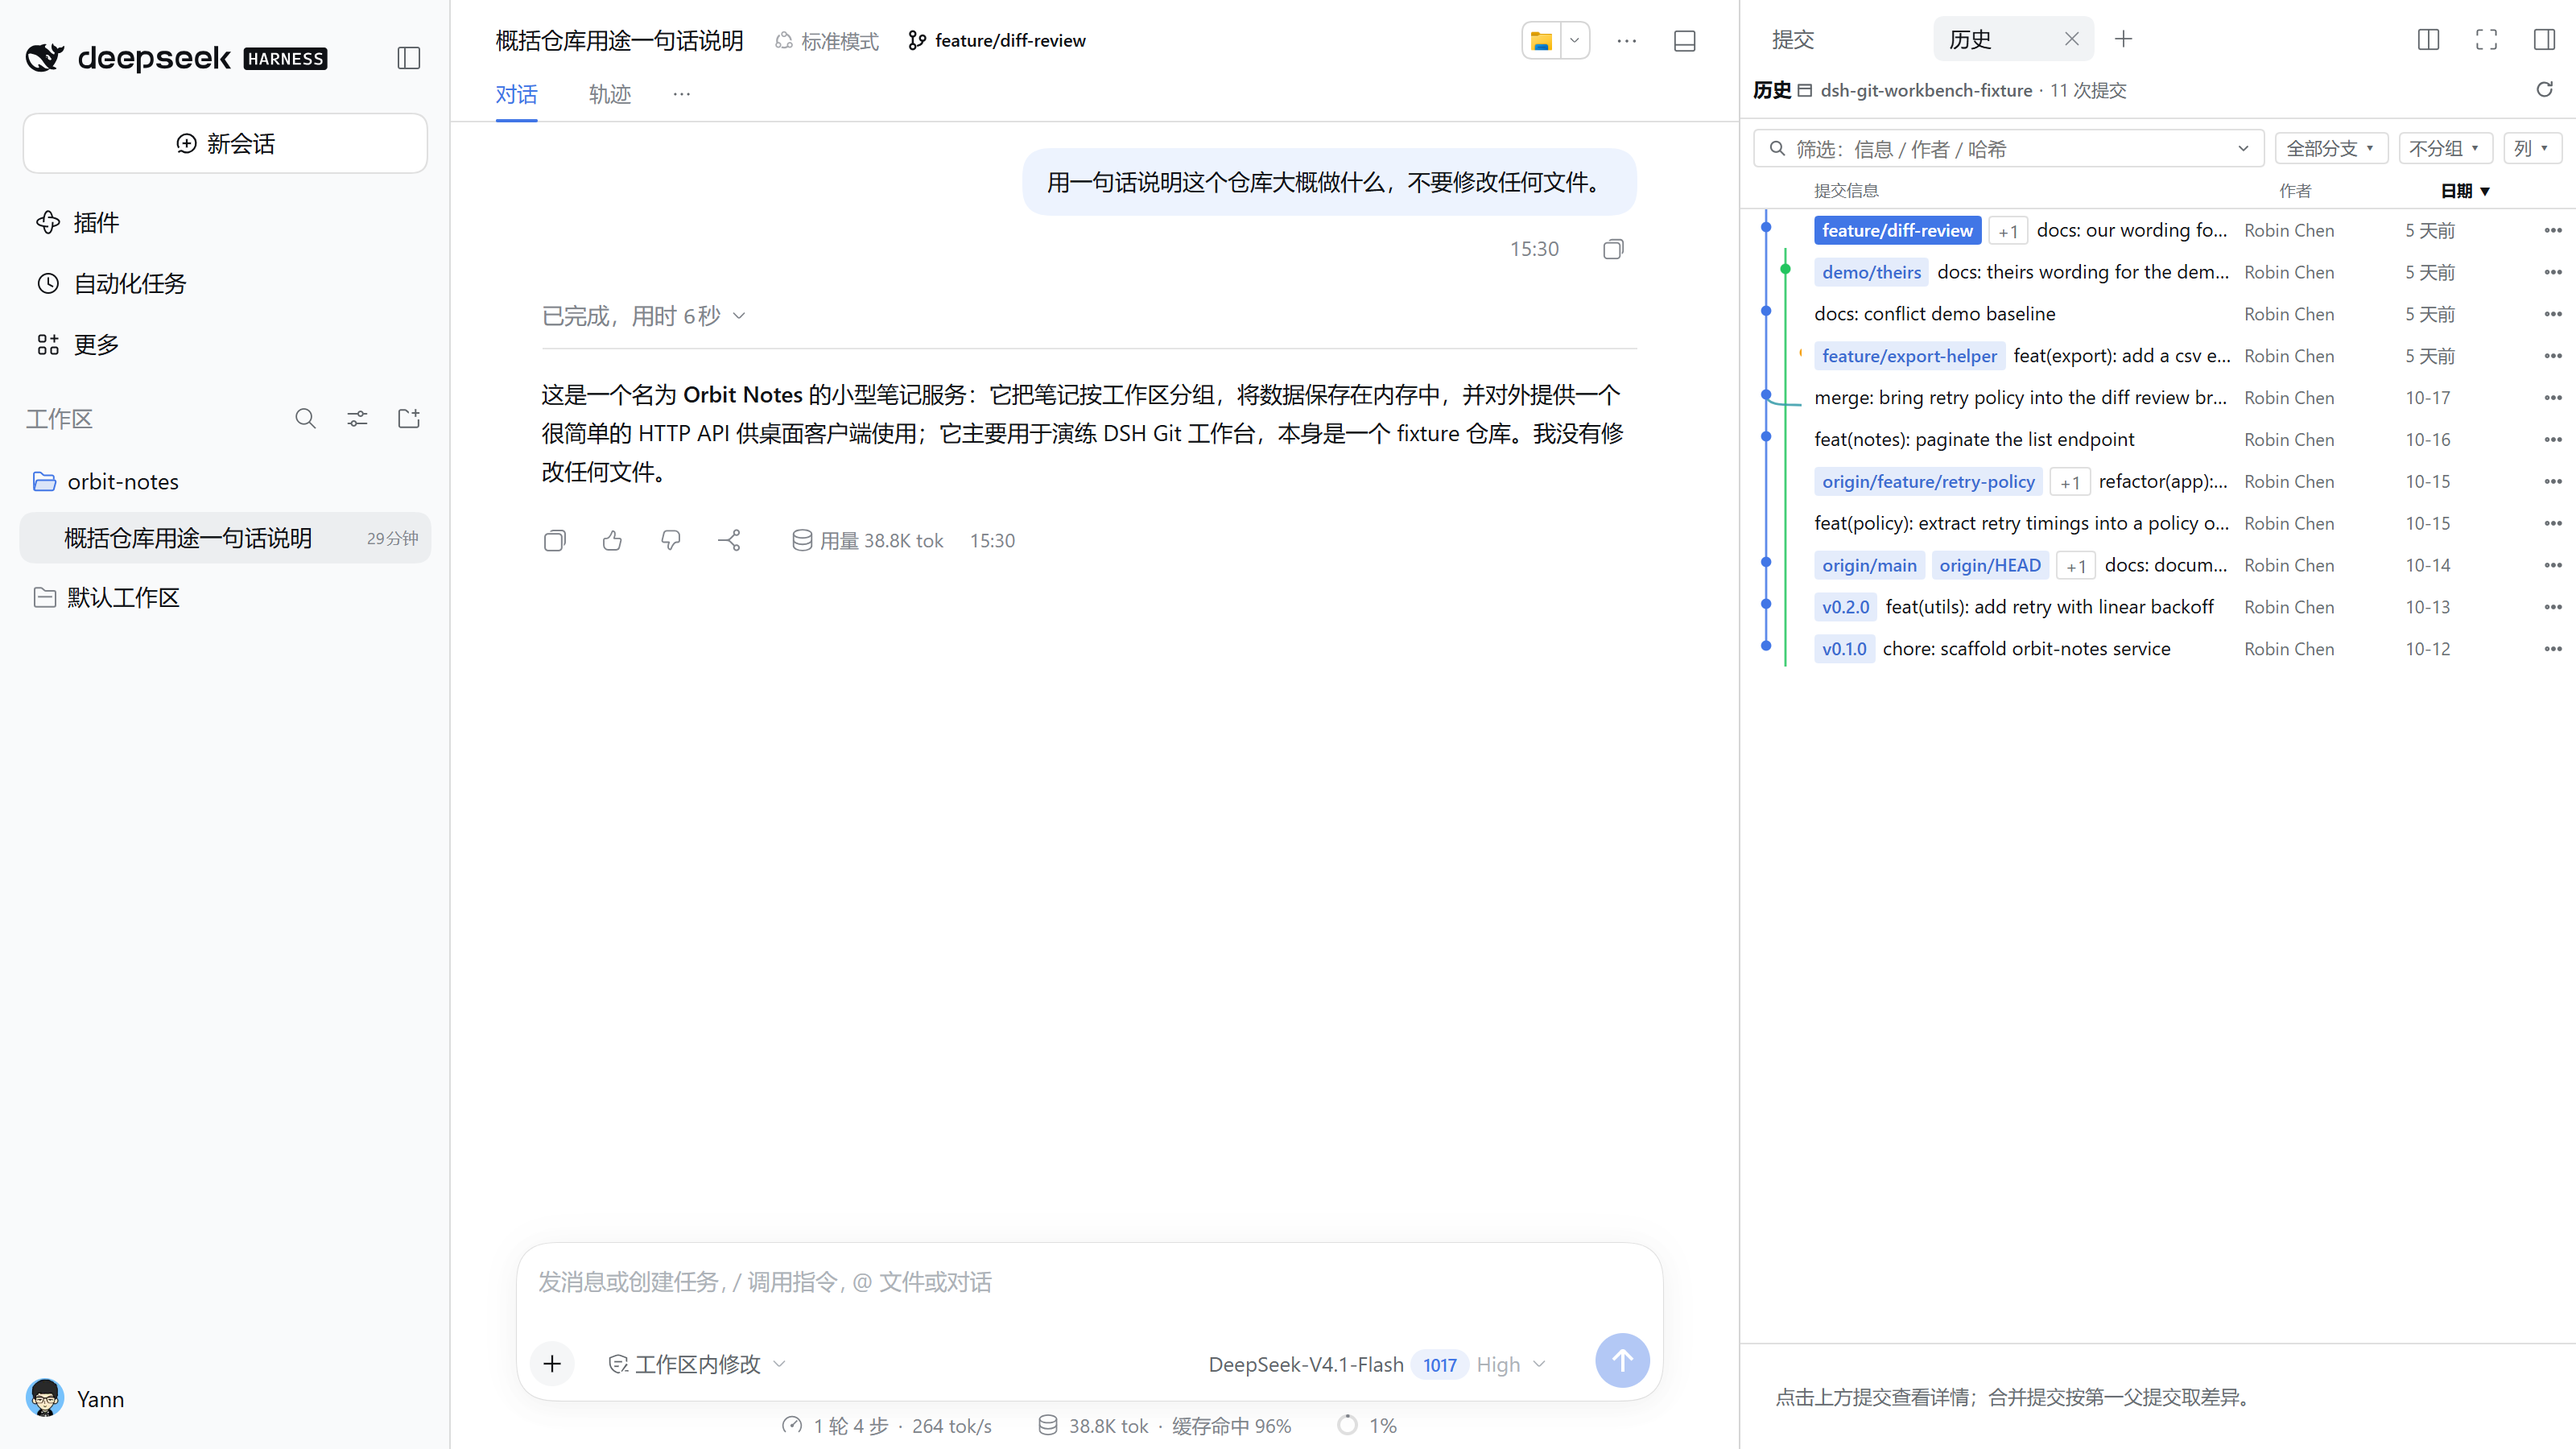
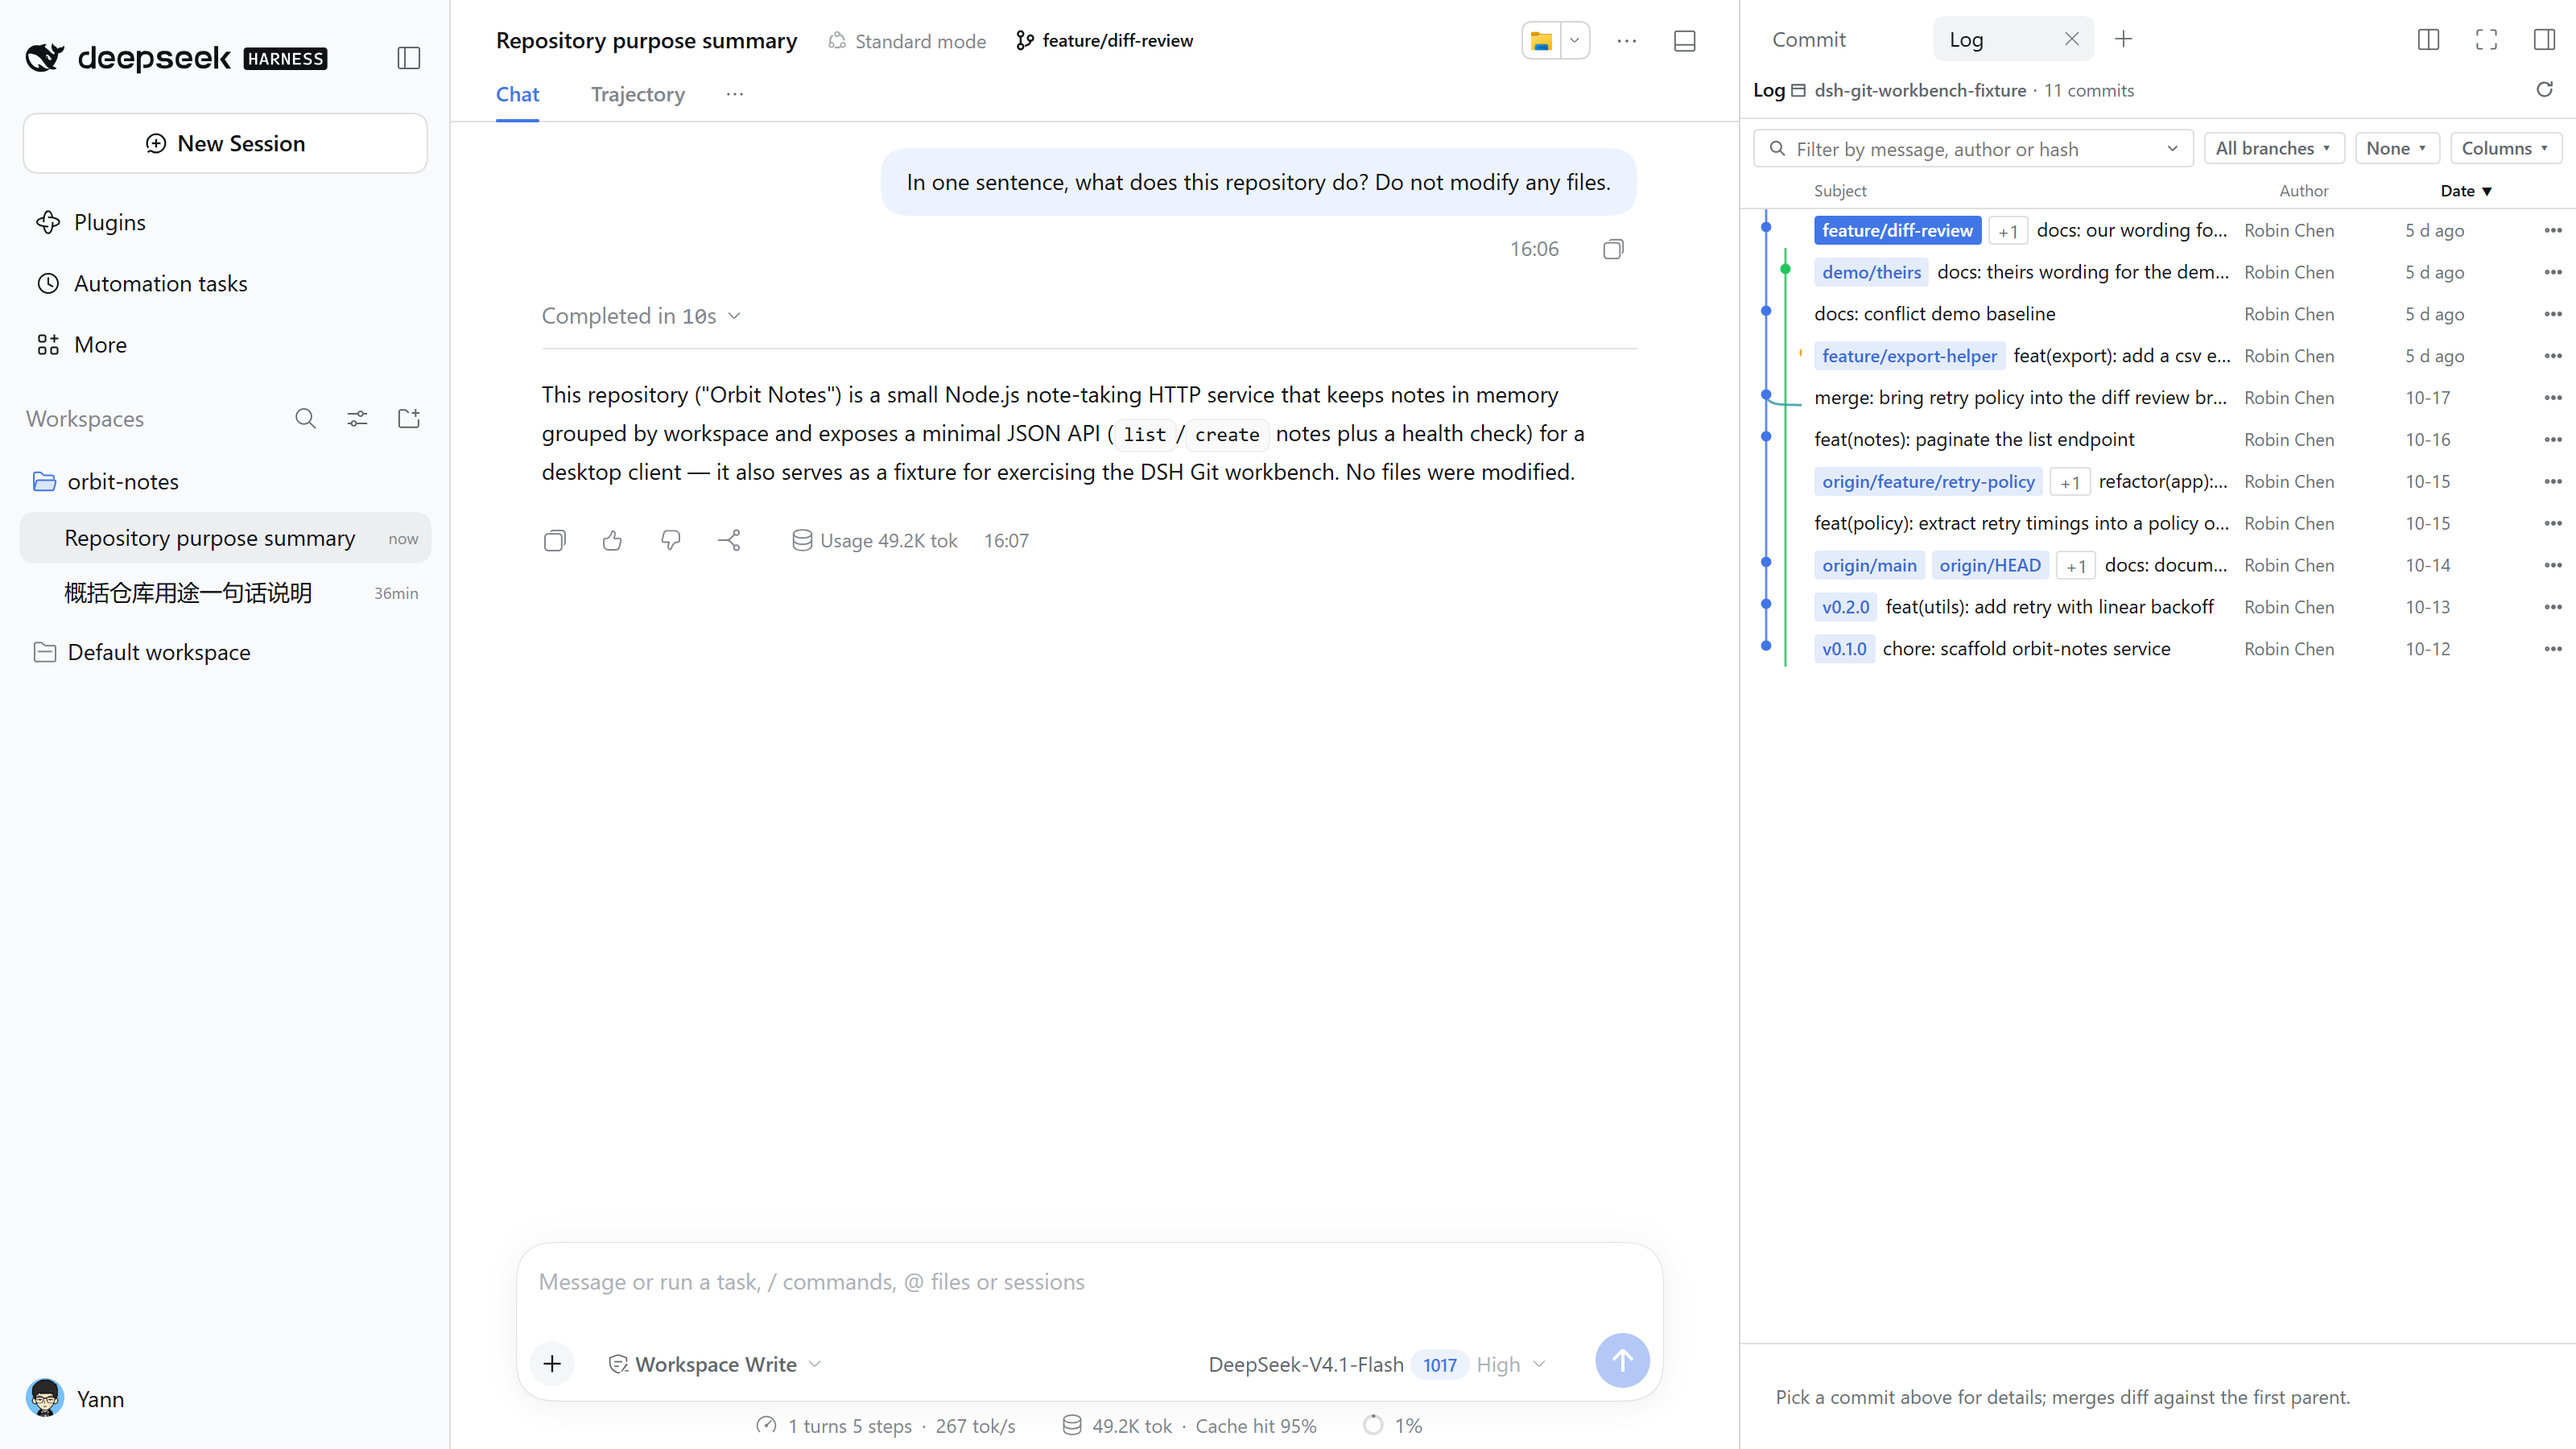
docs: name the English screenshots with the bare file name
The documents settled on "bare name is English, .zh is Chinese", but the
images went the other way: `commit-pane.png` was the Chinese UI and the
English one carried an `-en` infix. Anyone following the rule from the
documents landed on the wrong picture.

So the English shots take the bare names and the Chinese set becomes
`<surface>.zh.png`. That also fixes what the catalog shows: the
marketplace's `screenshots.json` lists bare names, so it had been
handing an English catalog a Chinese-UI screenshot.

The naming is now part of the docs check — a Chinese document that
points at the English image, or an English one that points at `.zh.png`,
fails the suite instead of waiting for someone to notice.

diff --git a/test/docs-i18n.test.js b/test/docs-i18n.test.js
@@ -77,6 +77,16 @@ function links(file) {
 
 const isExternal = (target) => /^[a-z][a-z0-9+.-]*:/i.test(target) || target.startsWith('//')
 
+/** Inline images only, outside fenced blocks: ![alt](target). */
+function images(file) {
+  const out = []
+  for (const { line, fenced } of lines(file)) {
+    if (fenced) continue
+    for (const match of line.matchAll(/!\[[^\]]*\]\(([^)\s]+)(?:\s+"[^"]*")?\)/g)) out.push(match[1])
+  }
+  return out
+}
+
 test('every document ships in both languages with the same structure', () => {
   for (const [en, zh] of PAIRS) {
     for (const file of [en, zh]) assert.ok(existsSync(path.join(root, file)), `${file} is missing`)
@@ -114,6 +124,25 @@ test('every relative link in the docs resolves, anchors included', () => {
       const anchor = decodeURIComponent(rawAnchor).toLowerCase()
       const anchors = new Set(headings(resolved).map((h) => h.anchor))
       if (!anchors.has(anchor)) problems.push(`${file}: ${target} → no "#${anchor}" heading in ${resolved}`)
+    }
+  }
+  assert.deepEqual(problems, [])
+})
+
+test('a screenshot is in the language of the document that shows it', () => {
+  const problems = []
+  for (const file of PAIRS.flat()) {
+    const zhSource = file.endsWith('.zh.md')
+    for (const target of images(file)) {
+      if (isExternal(target)) continue
+      const resolved = path.posix.normalize(path.posix.join(path.posix.dirname(file), target))
+      const zhTwin = resolved.replace(/\.png$/, '.zh.png')
+      if (zhSource && !resolved.endsWith('.zh.png') && existsSync(path.join(root, zhTwin))) {
+        problems.push(`${file}: ${target} shows the English screenshot, but ${zhTwin} exists`)
+      }
+      if (!zhSource && resolved.endsWith('.zh.png')) {
+        problems.push(`${file}: ${target} is a Chinese screenshot in an English document`)
+      }
     }
   }
   assert.deepEqual(problems, [])

diff --git a/docs/development.md b/docs/development.md
@@ -56,10 +56,10 @@ Conventions:
 The images in the docs come from a real DSH instance (an isolated data directory — never point it at the `~/.dsh` you use day to day):
 
 - Viewport **1600 × 900**, `deviceScaleFactor: 2`; the right-hand workbench panel is pinned at **about 360 px** (drag the right sidebar's `col-resize` splitter; the script drags it explicitly every run), leaving the conversation column on the left. Diff and conflict need the whole main area (collapse the right sidebar), otherwise they fall back to the unified view.
-- One **light** shot per surface, named `docs/assets/<surface>.png`:
-  `commit-pane`, `diff`, `history`, `conflict`, `stash-dialog`. The plugin follows the host theme, so there is no separate dark set.
-- A second set for the English UI, with `-en` in the file name: `docs/assets/<surface>-en.png`.
-  Switch the host language in **Settings (Ctrl+Alt+,) → General → Language**; switch back to Chinese when done.
+- One **light** shot per surface, in the English UI, named `docs/assets/<surface>.png`:
+  `commit-pane`, `diff`, `history`, `conflict`, `stash-dialog`. The bare name is the English one, matching the documents. The plugin follows the host theme, so there is no separate dark set.
+- A second set in the Chinese UI, with `.zh` in the file name: `docs/assets/<surface>.zh.png`.
+  Switch the host language in **Settings (Ctrl+Alt+,) → General → Language**; switch back to English when done.
 - Keep a real conversation in the main area (not the blank start page), and let a real account generate the commit message; the stash dialog, diff and conflict reuse the same conversation so no large empty area shows.
 - Crop the browser chrome only, never the interface; no real path, branch name or commit message from the user's repository — use a demo repository.
 - Key interaction states (a read-only badge, a conflict count, a network operation in progress) deserve their own shot, but do not build collages or annotations for them.

diff --git a/docs/development.zh.md b/docs/development.zh.md
@@ -56,10 +56,10 @@ npm test
 文档里的图来自真实的 DSH 实例（隔离的数据目录，不要指向日常使用的 `~/.dsh`）：
 
 - 视口 **1600 × 900**，`deviceScaleFactor: 2`；右侧工作台面板钉在 **约 360px**（拖右侧栏左边缘的 `col-resize` 分隔条，脚本每次显式拖一次），左侧保留会话列。差异与冲突要占满主区域（收起右侧栏），否则会自动退回统一视图。
-- 每个界面只出**浅色**一张，命名 `docs/assets/<surface>.png`：
-  `commit-pane`、`diff`、`history`、`conflict`、`stash-dialog`。插件跟随宿主主题，深色没有单独一套。
-- 英文界面另出一套，文件名加 `-en` 中缀：`docs/assets/<surface>-en.png`。
-  切换宿主语言在 **设置（Ctrl+Alt+,）→ 通用设置 → 语言**；截完记得切回中文。
+- 每个界面只出**浅色**一张，英文界面，命名 `docs/assets/<surface>.png`：
+  `commit-pane`、`diff`、`history`、`conflict`、`stash-dialog`。裸名就是英文图，和文档的命名约定一致。插件跟随宿主主题，深色没有单独一套。
+- 中文界面另出一套，文件名加 `.zh`：`docs/assets/<surface>.zh.png`。
+  切换宿主语言在 **设置（Ctrl+Alt+,）→ 通用设置 → 语言**；截完记得切回英文。
 - 主区域保留真实会话（而不是空白首页），提交页的提交信息由真实账号生成；储藏弹窗、差异与冲突沿用同一会话，避免大块空白。
 - 只裁浏览器外框，不裁界面；不要出现用户仓库的真实路径、分支名或提交信息——用演示仓库。
 - 关键交互状态（只读徽标、冲突计数、进行中的网络操作）值得单独截，但不要为此拼图或加标注。

diff --git a/README.md b/README.md
@@ -13,7 +13,7 @@
 
 [中文](README.zh.md) · [Features](docs/features.md) · [HTTP API](docs/api.md) · [Architecture](docs/architecture.md) · [Design notes](docs/jetbrains-parity.md) · [Development](docs/development.md)
 
-![Commit pane](docs/assets/commit-pane-en.png)
+![Commit pane](docs/assets/commit-pane.png)
 
 ## What it is
 
@@ -33,11 +33,11 @@ It also plugs into DSH surfaces you already use: the branch chip in the session 
 
 | Diff (side-by-side, word-level) | History (graph + sortable table) |
 |---|---|
-| ![Diff](docs/assets/diff-en.png) | ![History](docs/assets/history-en.png) |
+| ![Diff](docs/assets/diff.png) | ![History](docs/assets/history.png) |
 | **Conflict resolution** | **Stash (name + partial files)** |
-| ![Conflict](docs/assets/conflict-en.png) | ![Stash dialog](docs/assets/stash-dialog-en.png) |
+| ![Conflict](docs/assets/conflict.png) | ![Stash dialog](docs/assets/stash-dialog.png) |
 
-The Chinese-UI set is the same files without the `-en` infix, used by [README.zh.md](README.zh.md). The workbench follows the host theme and has no theme switch of its own, so dark mode needs no separate set.
+The Chinese-UI set is the same files with `.zh` before the extension, used by [README.zh.md](README.zh.md). The workbench follows the host theme and has no theme switch of its own, so dark mode needs no separate set.
 
 ## Install
 
